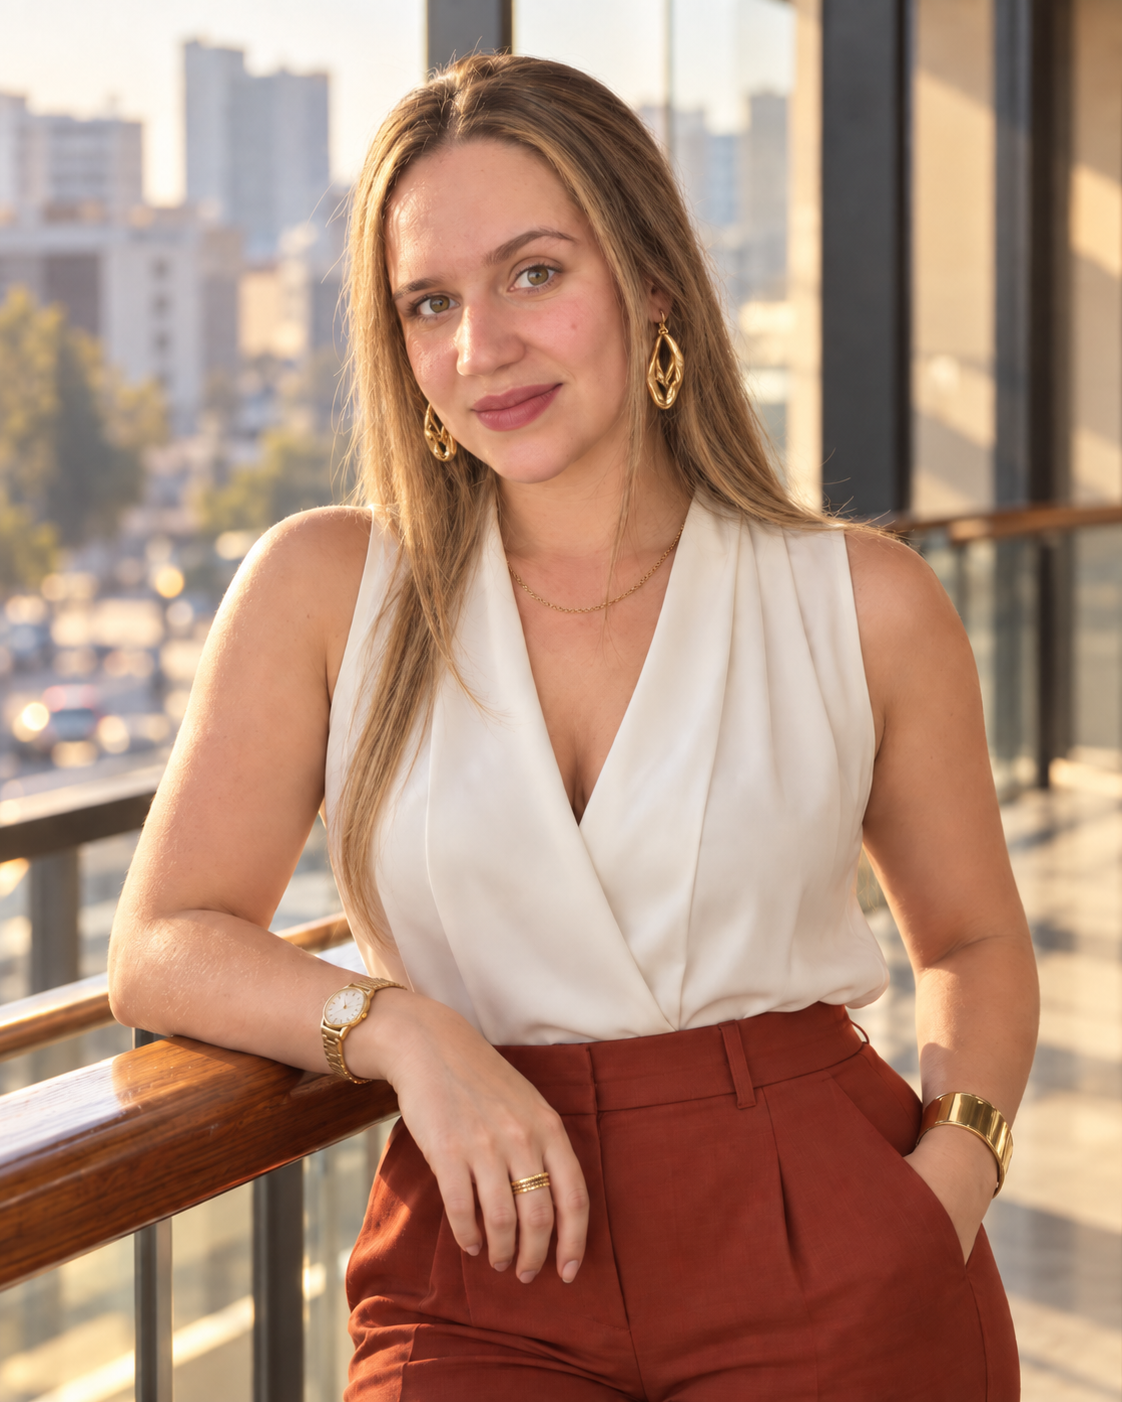
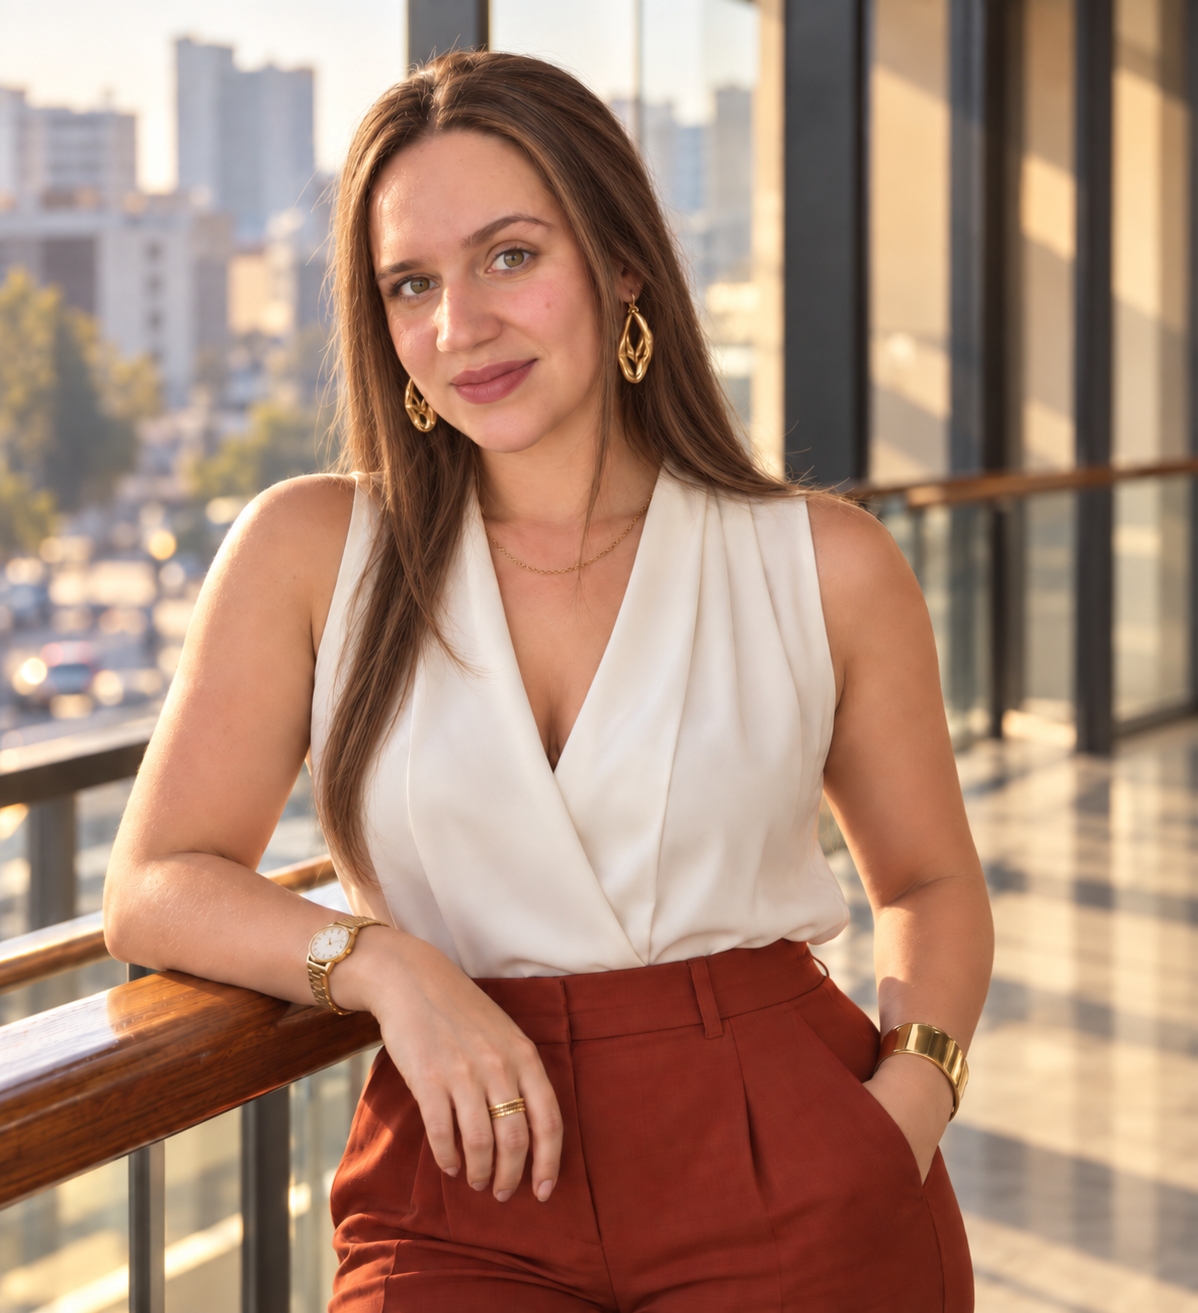
Add files via upload

diff --git a/index.html b/index.html
@@ -23,7 +23,7 @@
     <div class="container nav-content">
 
       <a href="#inicio" class="nav-brand" aria-label="Camila Reis Advocacia - início">
-        <img src="imgs/LogoEscudo.png" alt="Camila Reis Advocacia" class="nav-logo"> 
+        <img src="imgs/LogoEscudo.png" alt="Camila Reis Advocacia" class="nav-logo">
         <img src="imgs/Texto.png" alt="Camila Reis Advocacia" class="nav-logo-texto">
       </a>
 
@@ -102,9 +102,6 @@
     </section>
   </main>
 
-  <a href="#servicos" class="scroll-indicator" aria-label="Ir para serviços">
-    <span></span>
-  </a>
   </section>
 
   <section class="services section-light" id="servicos">
@@ -183,6 +180,29 @@
           </p>
           <a href="#contato">Falar sobre meu caso <span>→</span></a>
         </article>
+
+        <article class="service-card reveal">
+          <div class="service-icon">
+            <svg viewBox="0 0 24 24" aria-hidden="true">
+              <path d="M4 5h16v14H4z" />
+              <path d="M8 5V3h8v2" />
+              <path d="M8 10h8" />
+              <path d="M8 14h5" />
+              <path d="M16 14l2 2 3-4" />
+            </svg>
+          </div>
+
+          <h3>Direito Trabalhista</h3>
+
+          <p>
+            Orientação em direitos trabalhistas, rescisões,
+            verbas salariais, contratos e relações de trabalho.
+          </p>
+
+          <a href="#contato">
+            Falar sobre meu caso <span>→</span>
+          </a>
+        </article>
       </div>
     </div>
   </section>
@@ -208,17 +228,24 @@
 
       <div class="about-content reveal reveal-delay">
         <span class="eyebrow">Sobre</span>
+
         <h2>Camila Reis | OAB/GO 65.655</h2>
+
         <p>
-          Advogada atuante desde 2022, com experiência em Direito Civil, Família e Sucessões,
-          Consumidor, Empresarial e Trabalhista. Atua em demandas de família, inventários,
-          contratos e demais questões cíveis, atendendo pessoas físicas e empresas.
+          Advogada atuante desde 2022, com atuação nas áreas de Direito Civil,
+          Família e Sucessões, Direito do Consumidor, Empresarial e Trabalhista,
+          prestando assessoria jurídica a pessoas físicas e empresas.
         </p>
 
         <p>
-          A atuação é pautada pela ética, transparência, estratégia e clareza, com análise
-          individualizada de cada caso e comunicação próxima sobre os caminhos, riscos e
-          possibilidades jurídicas. Atendimento presencial em Catalão/GO e online para todo o Brasil.
+          O trabalho é conduzido com ética, transparência e estratégia, a partir da
+          análise individualizada de cada caso. O cliente recebe orientação clara e
+          objetiva sobre seus direitos, alternativas jurídicas, riscos e possíveis
+          caminhos para a solução da demanda.
+        </p>
+
+        <p>
+          Atendimento presencial em Catalão/GO e online em todo o Brasil.
         </p>
 
         <a href="https://www.instagram.com/camilareisadvocacia/" target="_blank" rel="noopener noreferrer"
